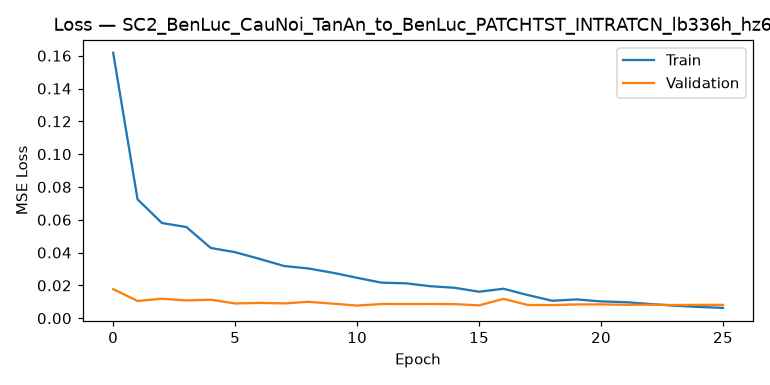
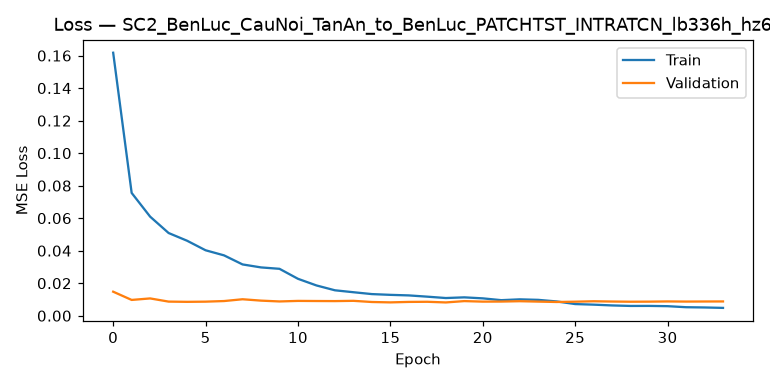
Day 1 new development: Tried more experiments on inter_patch, new direction could be a lighter inter_patch with same accuracy

diff --git a/src_code/patchTST_Intra.py b/src_code/patchTST_Intra.py
@@ -236,6 +236,7 @@ class PatchTST_IntraTCN(nn.Module):
                  longrange=False,          # HƯỚNG 2: bật cross-attention tầm xa
                  n_queries=4,              # số query mỗi patch cho khối tầm xa
                  tcn_levels=2, dropout=0.1,
+                 inter_layers=None,        # số lớp inter-patch; None -> dùng n_layers
                  use_future=False, **kwargs):
         super().__init__()
         self.input_size = input_size
@@ -265,7 +266,9 @@ class PatchTST_IntraTCN(nn.Module):
                                      in_ch=block_in_ch, n_heads=n_heads,
                                      tcn_levels=tcn_levels, dropout=dropout)
         self.inter = InterPatchBlock(d_model, patch_len, P, in_ch=block_in_ch,
-                                     n_heads=n_heads, n_layers=n_layers, dropout=dropout)
+                                     n_heads=n_heads,
+                                     n_layers=(inter_layers if inter_layers is not None else n_layers),
+                                     dropout=dropout)
         self.fuse_norm = nn.LayerNorm(d_model)
 
         # HƯỚNG 2: khối cross-attention tầm xa (đặt sau fuse, trước pool)

diff --git a/src_code/Tested_models/patchTST_IntraTCN.py b/src_code/Tested_models/patchTST_IntraTCN.py
@@ -157,6 +157,7 @@ class PatchTST_IntraTCN(nn.Module):
                  n_heads=8,
                  intra_sa_layers=1,        # số lớp SA trong intra (cục bộ, để nhỏ)
                  tcn_levels=2,
+                 inter_layers=None,
                  dropout=0.1,
                  use_future=False,         # model này KHÔNG dùng future covariates
                  **kwargs):
@@ -183,7 +184,7 @@ class PatchTST_IntraTCN(nn.Module):
                                      n_sa_layers=intra_sa_layers,
                                      tcn_levels=tcn_levels, dropout=dropout)
         self.inter = InterPatchBlock(d_model, patch_len, self.num_patch,
-                                     n_heads=n_heads, n_layers=n_layers,
+                                     n_heads=n_heads,n_layers=(inter_layers if inter_layers is not None else n_layers),
                                      dropout=dropout)
         self.fuse_norm = nn.LayerNorm(d_model)
 
